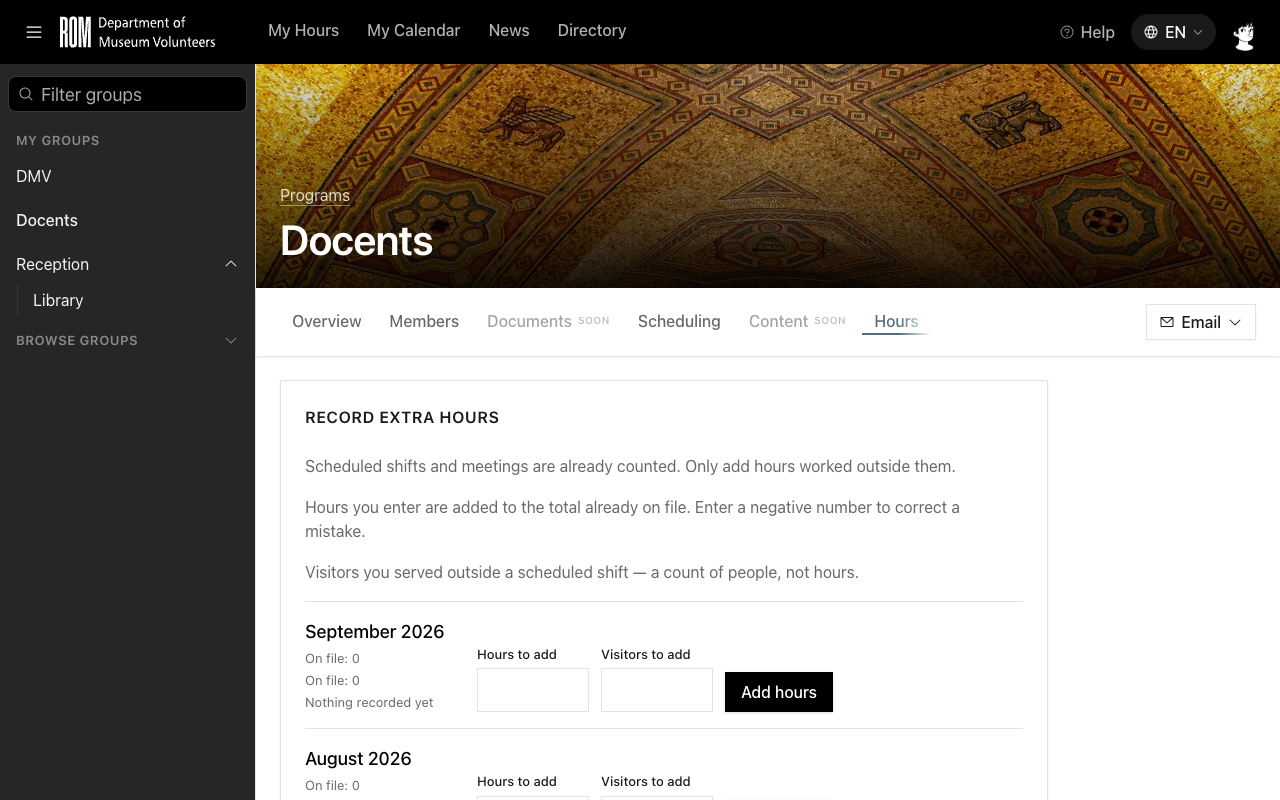
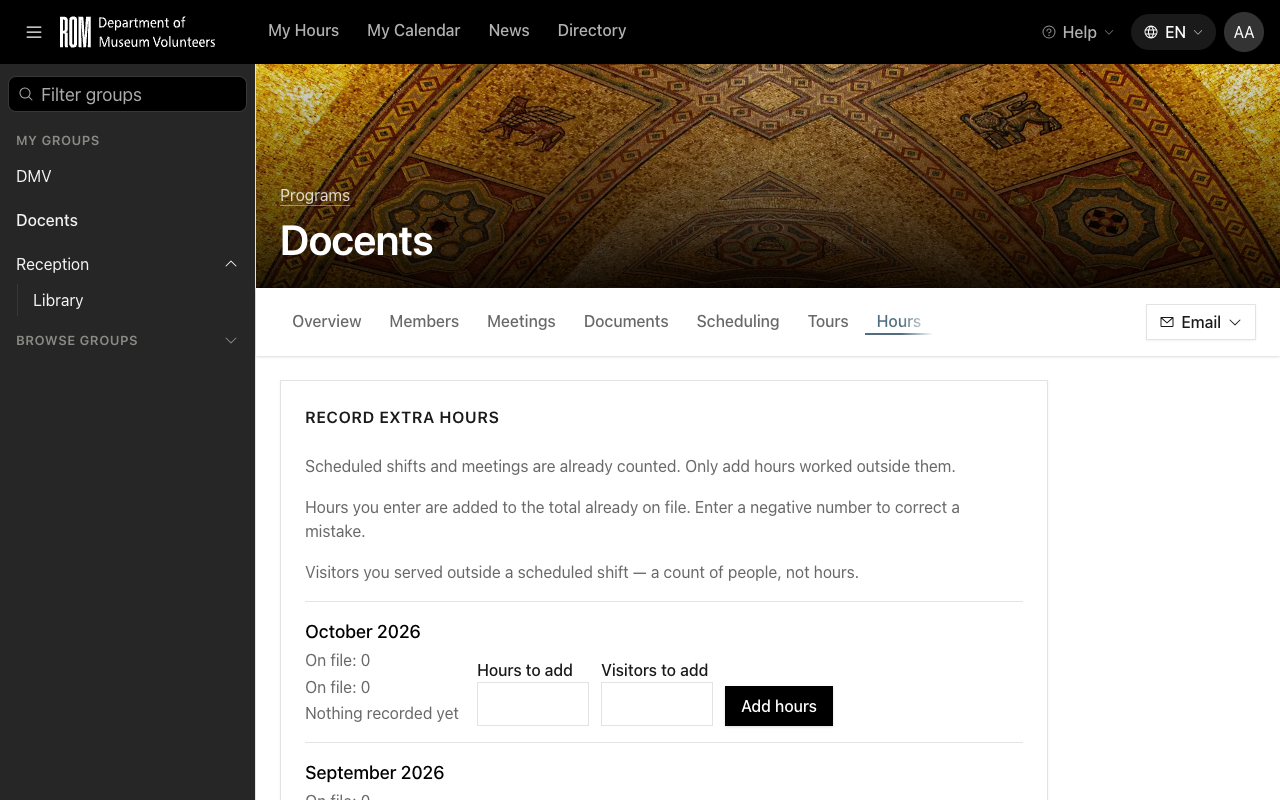
Reshoot the rest of group-page-tabs for the new tab strip (#874)
Shots 02 to 05 still showed the tab strip from before #871 (Soon tabs, no
Meetings or Tours), so the article mixed old and new chrome. Reshoot them, and
trim the 06 caption.

diff --git a/resources/help/fr/group-page-tabs.md b/resources/help/fr/group-page-tabs.md
@@ -24,7 +24,7 @@ Les réunions du groupe, avec leurs ordres du jour et leurs procès-verbaux. Cet
 
 Les onglets Réunions et Visites sont réservés aux membres du groupe. Si vous n'êtes pas dans le groupe, vous voyez quand même ces onglets. Chacun montre seulement **Réservé aux membres de ce groupe** et un lien **Comment se joindre**. Sélectionnez le lien pour ouvrir la carte **Comment se joindre** de l'Aperçu.
 
-![L'onglet Visites d'un groupe dont vous n'êtes pas membre : Réservé aux membres de ce groupe, et le lien Comment se joindre](06.png)
+![L'onglet Visites d'un groupe hors des vôtres : l'avis réservé aux membres et le lien Comment se joindre](06.png)
 
 ## Horaire
 

diff --git a/resources/help/en/group-page-tabs.md b/resources/help/en/group-page-tabs.md
@@ -24,7 +24,7 @@ The Group's meetings, with their agendas and minutes. This tab shows only when t
 
 Meetings and Tours are for members of the Group. If you are not in the Group, you still see these tabs. Each one shows only **For members of this group** and a **How to join** link. Select the link to open the **How to join** card on the Overview.
 
-![The Tours tab on a Group you are not in: For members of this group, and the How to join link](06.png)
+![The Tours tab on a Group you are not in: the members-only notice and the How to join link](06.png)
 
 ## Scheduling
 
